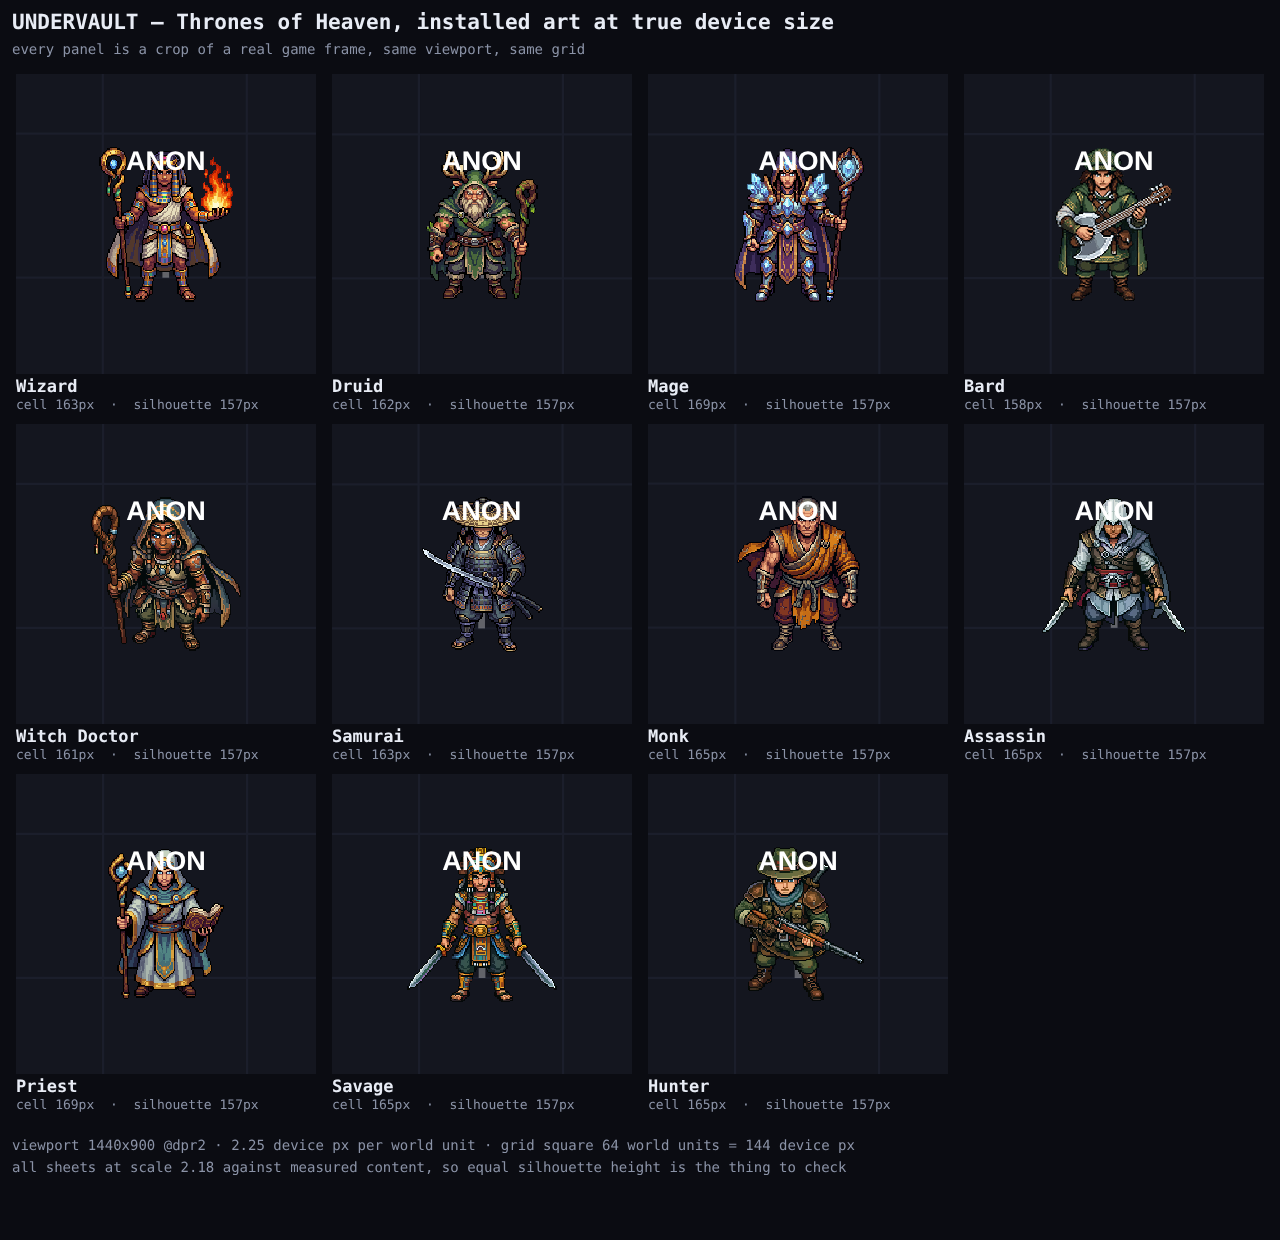
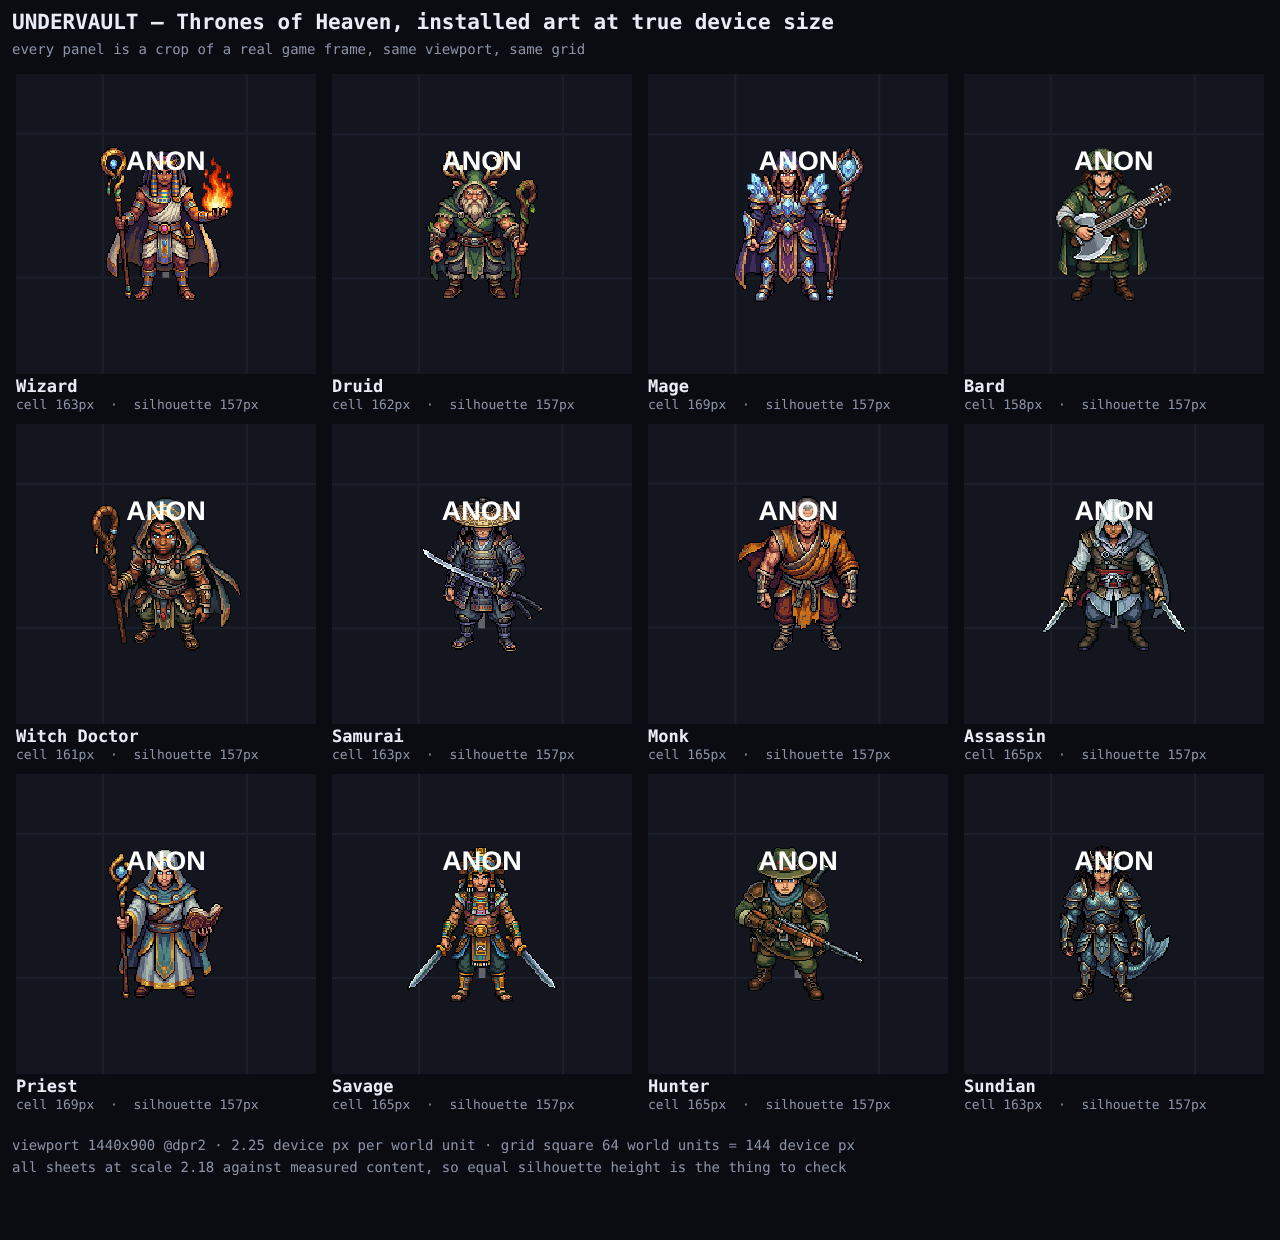
Sundian installed at 2.18 — twelve characters, and back on the roster's scale
Eleventh of the 13. Eight 252x252 RGBA facings supplied 2026-08-05 across two
messages of four; not assembled until all eight were present. Committed verbatim
under docs/art-review/batch1/sundian/sources/ at the md5s they arrived with.

  E  707586ae699e771c508ba8c40617ca0e    W  78d4e195ae078f0725967b434fbd1af1
  SE 76d9009fbd394d180de95912e6908317    NW eaf1af8dc4924fe04ffcd8769d5489c9
  S  c8d00dd85e7a956dcf45d92fa16e7bcf    N  de14642c2e72f9dee96addd39d384f75
  SW 0931ae048a5b92cc4ae6376bc0d40453    NE fb7a5aebde6cfa95fbef5b9c89963782

assets/sprites/char/toh_sundian.png, 128x1024, directions 8, content [92,123],
scale 2.18. Autocrop 252x252 -> 92x123, no resampling. 252 is a fifth source
canvas across the roster.

SIZE. Silhouette 157.0 device px, 0.00% off the Druid, identical to the other
eleven. Cell 163.3px, fit 1.0407.

BACK ON THE ROSTER'S SCALE, which was worth checking after the Bard. The content
box was measured BEFORE installing rather than discovered by a failed assembly:
92x123 fits the 128 cell with room to spare. Source pixel density 0.78 px per
device px, the same as the Druid, Wizard and Hunter — no repeat of the Bard's
1.62.

THE TAIL COSTS NOTHING. It was the one thing that could have gone wrong: it
extends the content box sideways in the profile views without adding height.
Widest facing is 92 against a 128 cell, and normalisation keys on height anyway,
so it could not have moved his rendered size even if it had been wider.
[…]

Changed region(s): [[0.8125, 0.6742, 0.9375, 0.7968], [0.75, 0.8581, 0.8125, 0.8887], [0.5938, 0.1226, 0.6562, 0.1532]]

diff --git a/docs/art-review/batch1/README.md b/docs/art-review/batch1/README.md
@@ -1,6 +1,6 @@
 # Batch 1 — Thrones of Heaven
 
-Thirteen characters to install. **Ten are in.**
+Thirteen characters to install. **Eleven are in.**
 
 | | character | id | status |
 |---|---|---|---|
@@ -14,7 +14,8 @@ Thirteen characters to install. **Ten are in.**
 | ✓ | Mage | `char.toh_mage` | installed |
 | ✓ | Wizard | `char.toh_wizard` | installed |
 | ✓ | Bard | `char.toh_bard` | installed |
-| | Blacksmith · Necromancer · Sundian | | awaiting art (3) |
+| ✓ | Sundian | `char.toh_sundian` | installed |
+| | Blacksmith · Necromancer | | awaiting art (2) |
 
 The Druid (`char.toh_druid`) is the style anchor and is not part of batch 1 —
 see [`../druid/README.md`](../druid/README.md) and
@@ -44,6 +45,7 @@ artifact of padding.
 | Mage | 2.18 | 1.0756 | 99×119 | **168.8** | **157.0** | **−0.00%** |
 | Wizard | 2.18 | 1.0407 | 105×123 | 163.3 | **157.0** | **−0.00%** |
 | Bard † | 2.18 | 1.0079 | 190×254 | 158.2 | **157.0** | **−0.00%** |
+| Sundian | 2.18 | 1.0407 | 92×123 | 163.3 | **157.0** | **−0.00%** |
 
 † **The Bard is on a 256 cell, not 128** — the only one. His art arrived drawn
 at roughly twice the roster's scale: the figure fills 254 of a 256 canvas where
@@ -55,10 +57,10 @@ not, and that is a judgement for the contact sheet.
 Measured off the renderer's own `drawImage` in a real arena. Nothing is more
 than 5% off the Druid.
 
-Eleven sheets, eleven content boxes, **four** source canvases: 240×240 (Mage),
+Twelve sheets, twelve content boxes, **five** source canvases: 240×240 (Mage),
 244×244 (Savage, Priest), 248×248 (Druid, Assassin, Samurai, Monk, Wizard),
-256×256 (Hunter, Witch Doctor, Bard). Cell fill runs 93.0% to 97.7% on the ten
-128-cell sheets and **99.2%** on the Bard's 256 cell.
+252×252 (Sundian), 256×256 (Hunter, Witch Doctor, Bard). Cell fill runs 93.0%
+to 97.7% on the eleven 128-cell sheets and **99.2%** on the Bard's 256 cell.
 
 The spread across **cells** is now 160.7 to 168.8 device px — 8.1px, opened up
 by the Priest and matched exactly by the Mage, who lands on the same 119px
@@ -92,6 +94,12 @@ would render its other seven short. Measured:
 | Mage | 119 119 118 118 119 117 116 117 | 119 | 116 | **2.6%** |
 | Wizard | 121 121 121 123 123 121 120 119 | 123 | 119 | **3.4%** |
 | Bard | 248 254 248 254 248 246 244 246 | 254 | 244 | **4.1%** |
+| Sundian | 122 123 122 123 122 119 115 119 | 123 | 115 | **7.0%** |
+
+The **Sundian is the widest of the bipeds at 7.0%**, just outside the band the
+other ten sit in — his three north-facing rows are 4–8px shorter than the rest,
+which is a head-turn, not a broken sheet. His silhouette still lands on 157.0
+like everyone else, because normalisation keys on the tallest facing.
 
 Four sit in the same ~5% band; the Savage (1.6%), Samurai (2.4%) and Mage (2.6%)
 are notably tighter — their poses barely change height between facings, where the
@@ -349,6 +357,35 @@ scale, not a change to the pipeline.
 He also costs more memory than the rest: 256×2048 RGBA is **2.00 MB decoded**
 against ~0.5 MB for a 128×1024 sheet. One character's worth is fine; a roster of
 them would not be.
+
+### Sundian
+
+Supplied 2026-08-05, eight **252×252** RGBA PNGs — a fifth source canvas, in two
+messages of four; not assembled until all eight were present.
+
+| facing | md5 | file |
+|---|---|---|
+| E | `707586ae699e771c508ba8c40617ca0e` | `sundian/sources/east.png` |
+| SE | `76d9009fbd394d180de95912e6908317` | `sundian/sources/southeast.png` |
+| S | `c8d00dd85e7a956dcf45d92fa16e7bcf` | `sundian/sources/south.png` |
+| SW | `0931ae048a5b92cc4ae6376bc0d40453` | `sundian/sources/southwest.png` |
+| W | `78d4e195ae078f0725967b434fbd1af1` | `sundian/sources/west.png` |
+| NW | `eaf1af8dc4924fe04ffcd8769d5489c9` | `sundian/sources/northwest.png` |
+| N | `de14642c2e72f9dee96addd39d384f75` | `sundian/sources/north.png` |
+| NE | `fb7a5aebde6cfa95fbef5b9c89963782` | `sundian/sources/northeast.png` |
+
+Assembled to `assets/sprites/char/toh_sundian.png`, 128×1024, `directions: 8`,
+`content: [92, 123]`, `scale: 2.18`. Autocrop 252×252 → 92×123.
+
+**Back on the roster's scale**, which was worth checking after the Bard: the
+content box was measured before installing rather than discovered by a failed
+assembly, and 92×123 fits the 128 cell with room to spare. Source pixel density
+0.78 px per device px, the same as the Druid, Wizard and Hunter.
+
+He has a **tail**, which is the one thing that could have gone wrong here — it
+extends the content box sideways in the profile views without adding height.
+Widest facing is 92px against a 128 cell, so it costs nothing, and since
+normalisation keys on height it could not have moved his rendered size anyway.
 
 ## What the contact sheet shows — look at this, not at numbers
 
